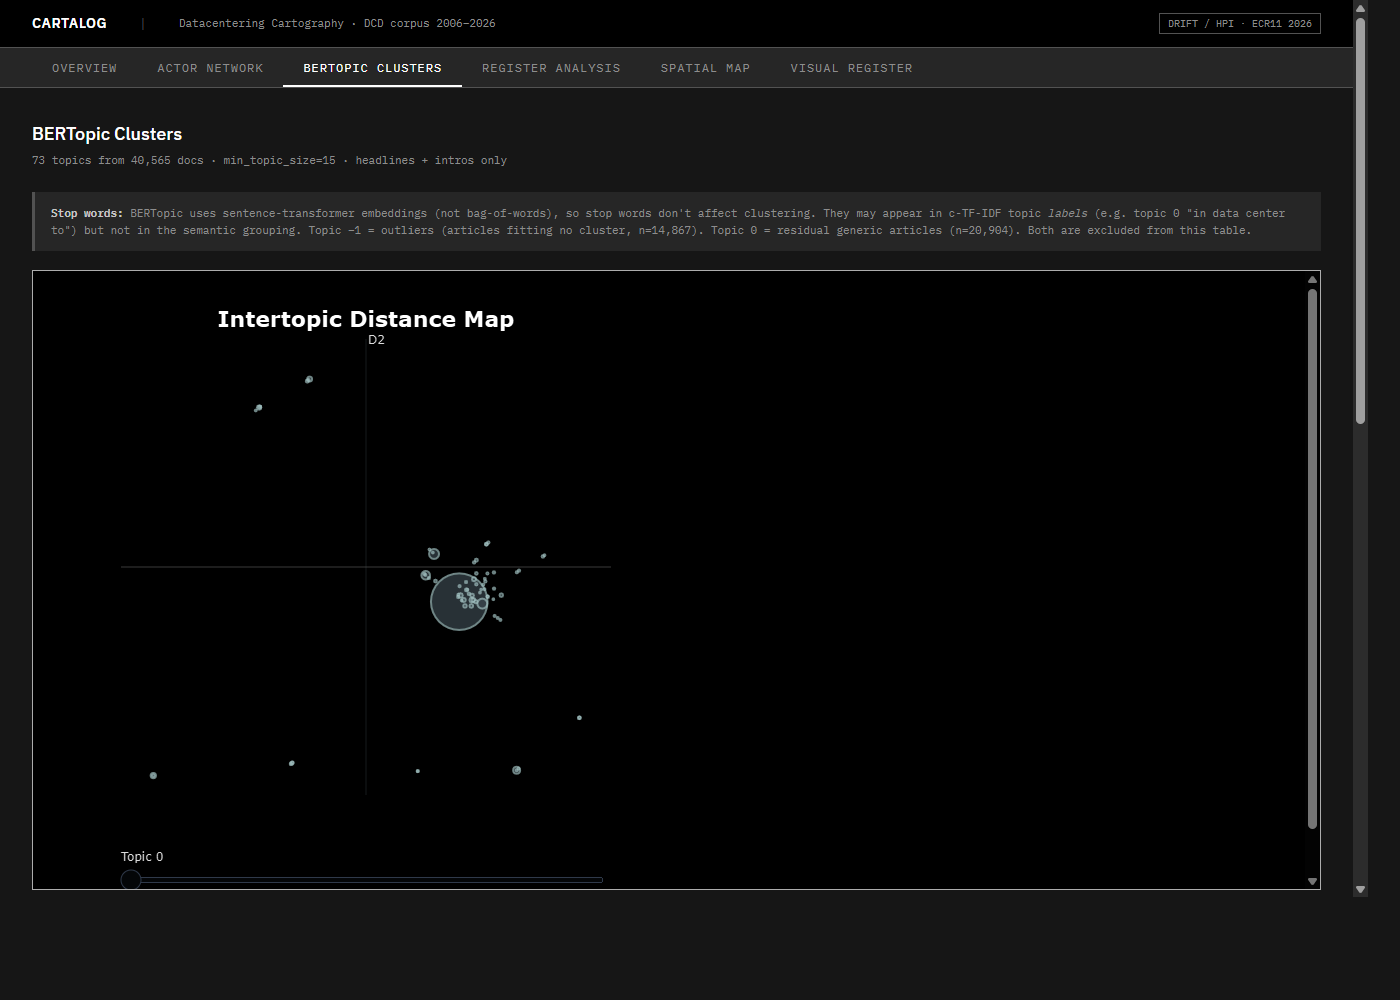
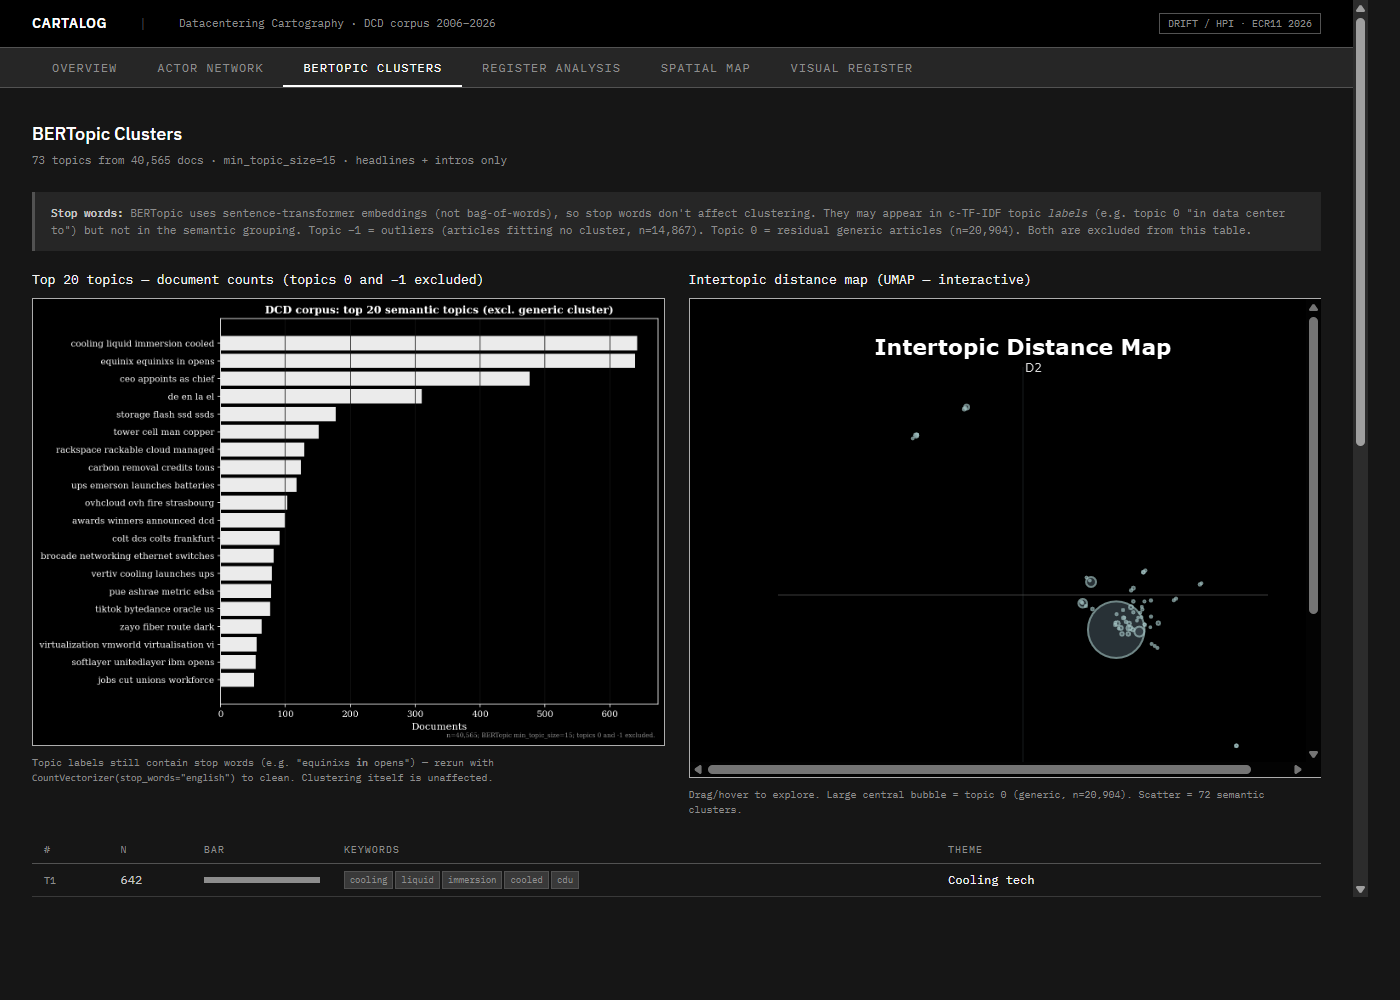
BERTopic tab: side-by-side barchart + UMAP; clean barchart excludes topic 0

diff --git a/docs/cartalog/index.html b/docs/cartalog/index.html
@@ -440,11 +440,21 @@
     <strong>Stop words:</strong> BERTopic uses sentence-transformer embeddings (not bag-of-words), so stop words don't affect clustering. They may appear in c-TF-IDF topic <em>labels</em> (e.g. topic 0 "in data center to") but not in the semantic grouping. Topic −1 = outliers (articles fitting no cluster, n=14,867). Topic 0 = residual generic articles (n=20,904). Both are excluded from this table.
   </div>
 
-  <div style="margin-bottom:1.2rem">
-    <iframe src="bertopic_map.html"
-            style="width:100%;height:620px;border:1px solid var(--line);background:#fff;filter:invert(1) hue-rotate(180deg)"
+  <div style="display:grid;grid-template-columns:1fr 1fr;gap:1.5rem;margin-bottom:1.2rem">
+    <div>
+      <div class="label" style="margin-bottom:0.5rem">Top 20 topics — document counts (topics 0 and −1 excluded)</div>
+      <img src="bertopic_barchart.png" style="width:100%;border:1px solid var(--line);filter:invert(1) hue-rotate(180deg)" alt="BERTopic barchart">
+      <div style="font-size:10px;color:var(--text3);margin-top:4px">
+        Topic labels still contain stop words (e.g. "equinixs <strong>in</strong> opens") — rerun with <code>CountVectorizer(stop_words="english")</code> to clean. Clustering itself is unaffected.
+      </div>
+    </div>
+    <div>
+      <div class="label" style="margin-bottom:0.5rem">Intertopic distance map (UMAP — interactive)</div>
+      <iframe src="bertopic_map.html"
+            style="width:100%;height:480px;border:1px solid var(--line);background:#fff;filter:invert(1) hue-rotate(180deg)"
             title="BERTopic UMAP interactive map"></iframe>
-    <div style="font-size:10px;color:var(--text3);margin-top:4px">Interactive UMAP topic map — drag to explore, hover for topic keywords. Generated by BERTopic on 40,565 DCD headlines + intros.</div>
+      <div style="font-size:10px;color:var(--text3);margin-top:4px">Drag/hover to explore. Large central bubble = topic 0 (generic, n=20,904). Scatter = 72 semantic clusters.</div>
+    </div>
   </div>
 
   <table>
